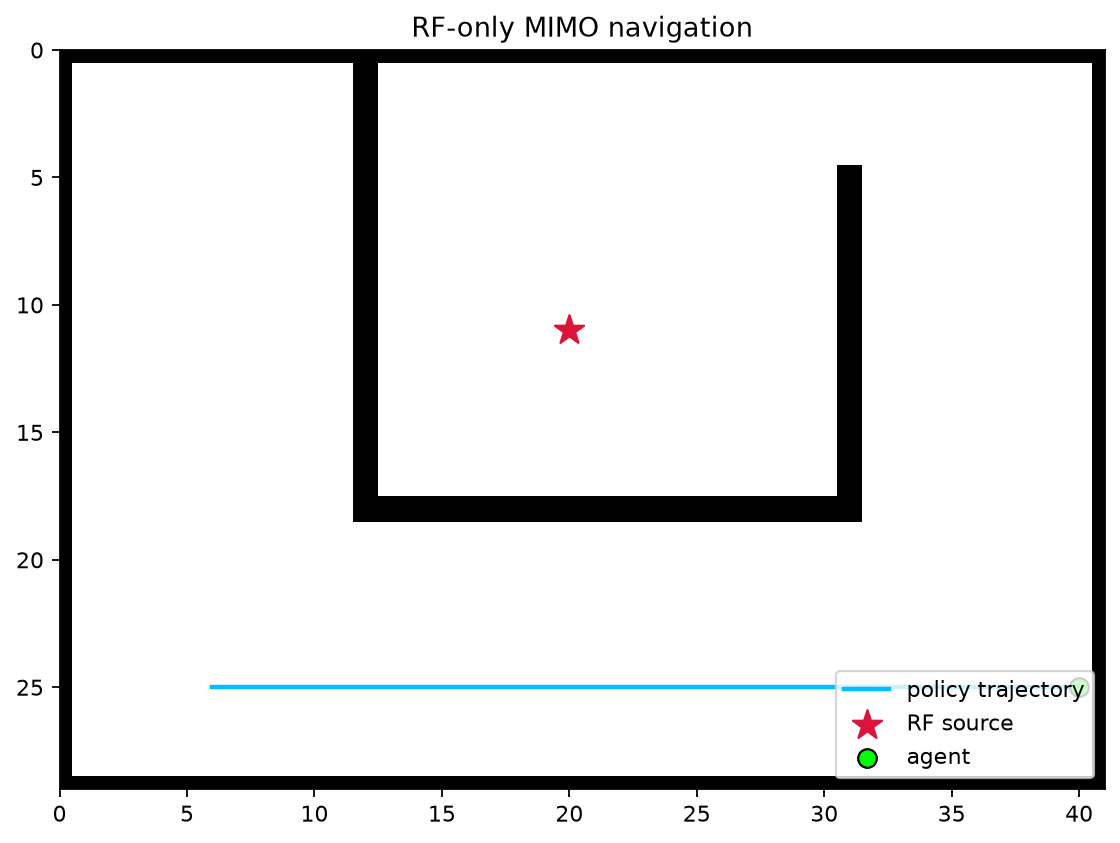
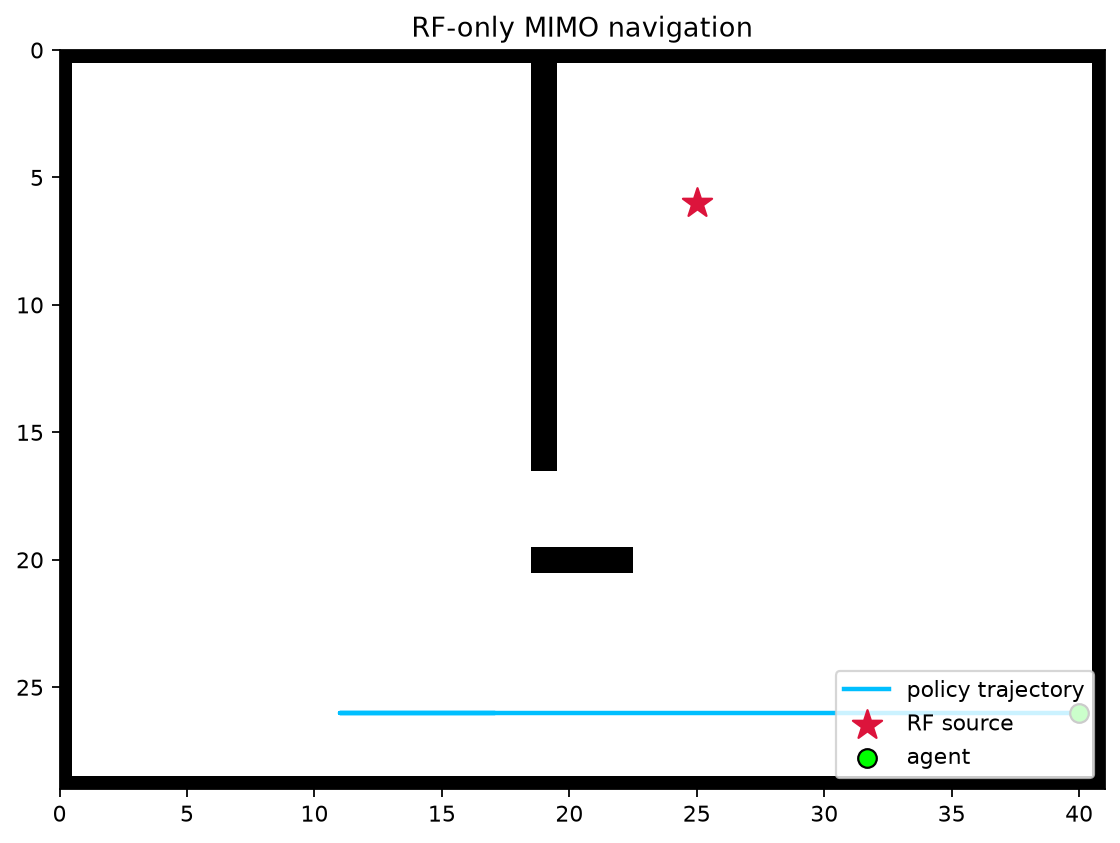
discrete direction

diff --git a/evaluate_policy.py b/evaluate_policy.py
@@ -1,4 +1,10 @@
-"""Evaluate a saved policy and render one RF-only trajectory."""
+"""Evaluate a saved policy and render one RF-only trajectory.
+
+Defaults to a holdout map: one of the layouts/source positions never sampled
+during training (see mimo_rl_env.N_TRAIN_MAPS/N_HOLDOUT_MAPS), so this is a
+genuine unseen-environment test rather than a replay of a memorised route.
+"""
+import argparse
 from pathlib import Path
 
 import torch
@@ -8,12 +14,19 @@ from train_dagger import RecurrentPolicy
 
 
 def main():
+    parser = argparse.ArgumentParser()
+    parser.add_argument("--split", choices=("holdout", "train", "all"), default="holdout",
+                        help="Map pool to draw the episode from; 'holdout' is never seen during training.")
+    parser.add_argument("--seed", type=int, default=None, help="Omit for a different random map/start each run.")
+    args = parser.parse_args()
+
     data = torch.load("checkpoints/rf_gru_dagger.pt", map_location="cpu", weights_only=True)
     env = MIMORFNavigationEnv()
     policy = RecurrentPolicy(data["observation_size"], env.action_size)
     policy.load_state_dict(data["model"]); policy.eval()
-    observation, hidden, trajectory, done = env.reset(random_start=False), torch.zeros(1, 1, policy.hidden_size), [env.position], False
-    episode_start = True
+    observation = env.reset(seed=args.seed, split=args.split)
+    hidden, trajectory, done, episode_start = torch.zeros(1, 1, policy.hidden_size), [env.position], False, True
+    print(f"map_index={env.map_index} (split={args.split}) source={env.source}")
     print(f"step   0: pos={env.position} heading={env.heading}")
     while not done:
         action, hidden = policy.greedy_action(torch.as_tensor(observation), hidden, episode_start)
